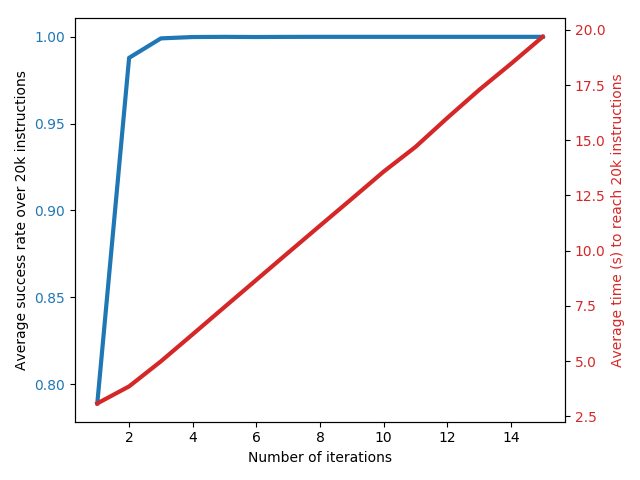
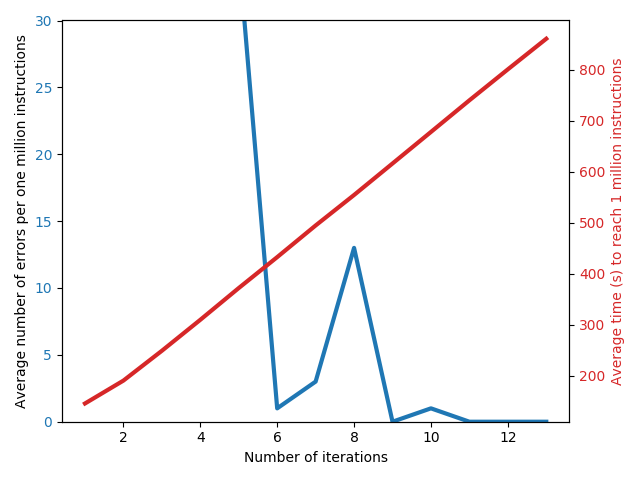
new graph and typos

diff --git a/paper/architecture.tex b/paper/architecture.tex
@@ -27,12 +27,12 @@ In \speculake, we cause the CPU to mis-speculate the destination of an indirect
 branch in the payload program, causing it to speculatively execute 
 instructions that are never truly executed. We term this speculative destination
 the \emph{speculative entry point}. \speculake uses indirect jumps to allow
-speculatively executing from \emph{any} instruction in the payload process'
+speculative execution from \emph{any} instruction in the payload process'
 address space. Because it can jump to any instruction, the malware analyst has a
 difficult task in determining where a payload program's speculative entry point
 is.
 
-In fact, the location this entry point is not determined by the payload
+In fact, the location of this entry point is not determined by the payload
 program, but rather the corresponding trigger program. This means that with only
 the payload program, an analyst does not posses enough information to find the
 speculative entry point.

diff --git a/paper/figures.tex b/paper/figures.tex
@@ -106,13 +106,13 @@
     \centering
         \includegraphics[width=0.46\textwidth]{figures/SuccessAndTime}
 
-    \caption{The number of instructions and success rate of a the 5-state Busy
+    \caption{The number of instructions and error rate of a the 5-state Busy
     Beaver configuration were measured as a function of how many iterations into
     the speculative world were performed. We see that the amount of time to
-    reach 20,000 instructions completed is a linear function of how many
+    reach a million instructions completed is a linear function of how many
     indirect calls into the speculative world we take. Additionally we see that
-    it only requires using 4 speculative calls per instruction to achieve no
-    errors in reaching 20,000 instructions.}
+    it only requires using 10 speculative calls per instruction to achieve a
+    very low number of errors in reaching a million instructions.}
 
     \label{fig:turing_success}
 \end{figure}
